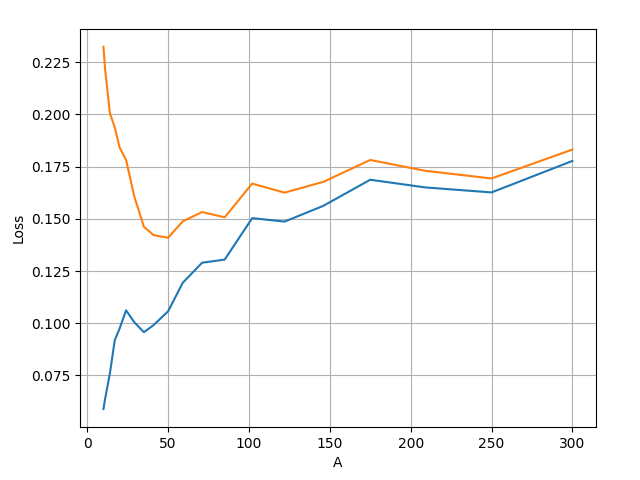
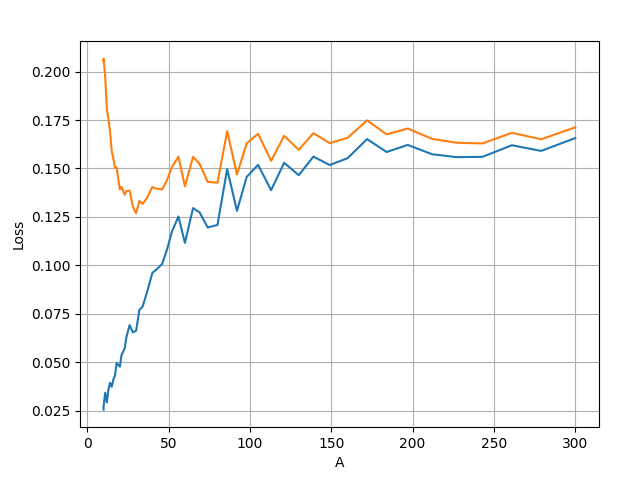
Update CRV sims with dynamic fee

diff --git a/example_crv/5_simulate_T.py b/example_crv/5_simulate_T.py
@@ -5,10 +5,13 @@ from libsimulate import scan_param, plot_losses
 if __name__ == '__main__':
     results = scan_param(
         'data/crvusdt-1m.json.gz',
-        A=50,
+        A=30,
         range_size=4,
-        fee=0.006,
-        Texp=[int(a) for a in logspace(log10(300), log10(40000), 20)]
+        fee=0.002,
+        min_loan_duration=1, max_loan_duration=1,
+        samples=20000, n_top_samples=20000,
+        add_reverse=True,
+        Texp=[int(a) for a in logspace(log10(200), log10(40000), 20)]
     )
 
     plot_losses('Texp', results)

diff --git a/example_crv/2_simulate_A.py b/example_crv/2_simulate_A.py
@@ -5,9 +5,11 @@ from libsimulate import scan_param, plot_losses
 if __name__ == '__main__':
     results = scan_param(
         'data/crvusdt-1m.json.gz',
-        A=[int(a) for a in logspace(log10(10), log10(300), 20)],
+        A=[int(a) for a in logspace(log10(10), log10(300), 50)],
         range_size=4,
-        fee=0.006,
+        fee=0.002,
+        min_loan_duration=1/24/2, max_loan_duration=1/24/2,
+        add_reverse=True,
         Texp=600
     )
 

diff --git a/example_crv/4_simulate_avg_loss_brief.py b/example_crv/4_simulate_avg_loss_brief.py
@@ -5,10 +5,11 @@ from libsimulate import scan_param, plot_losses
 if __name__ == '__main__':
     results = scan_param(
         'data/crvusdt-1m-brief.json.gz',
-        A=50,
+        A=30,
         range_size=[int(x) for x in linspace(4, 50, 10)],
-        fee=0.006,
+        fee=0.002,
         Texp=600,
+        add_reverse=True,
         samples=20000, n_top_samples=20000,
         min_loan_duration=1, max_loan_duration=1
     )

diff --git a/example_crv/3_simulate_avg_loss.py b/example_crv/3_simulate_avg_loss.py
@@ -5,11 +5,12 @@ from libsimulate import scan_param, plot_losses
 if __name__ == '__main__':
     results = scan_param(
         'data/crvusdt-1m.json.gz',
-        A=50,
+        A=30,
         range_size=[int(x) for x in linspace(4, 50, 10)],
-        fee=0.006,
+        fee=0.002,
         Texp=600,
         samples=20000, n_top_samples=20000,
+        add_reverse=True,
         min_loan_duration=1, max_loan_duration=1
     )
 

diff --git a/example_crv/1_simulate_fee.py b/example_crv/1_simulate_fee.py
@@ -8,6 +8,8 @@ if __name__ == '__main__':
         A=50,
         range_size=4,
         fee=logspace(log10(0.0005), log10(0.05), 20),
+        min_loan_duration=0.05, max_loan_duration=0.05,
+        add_reverse=True,
         Texp=600
     )
 
